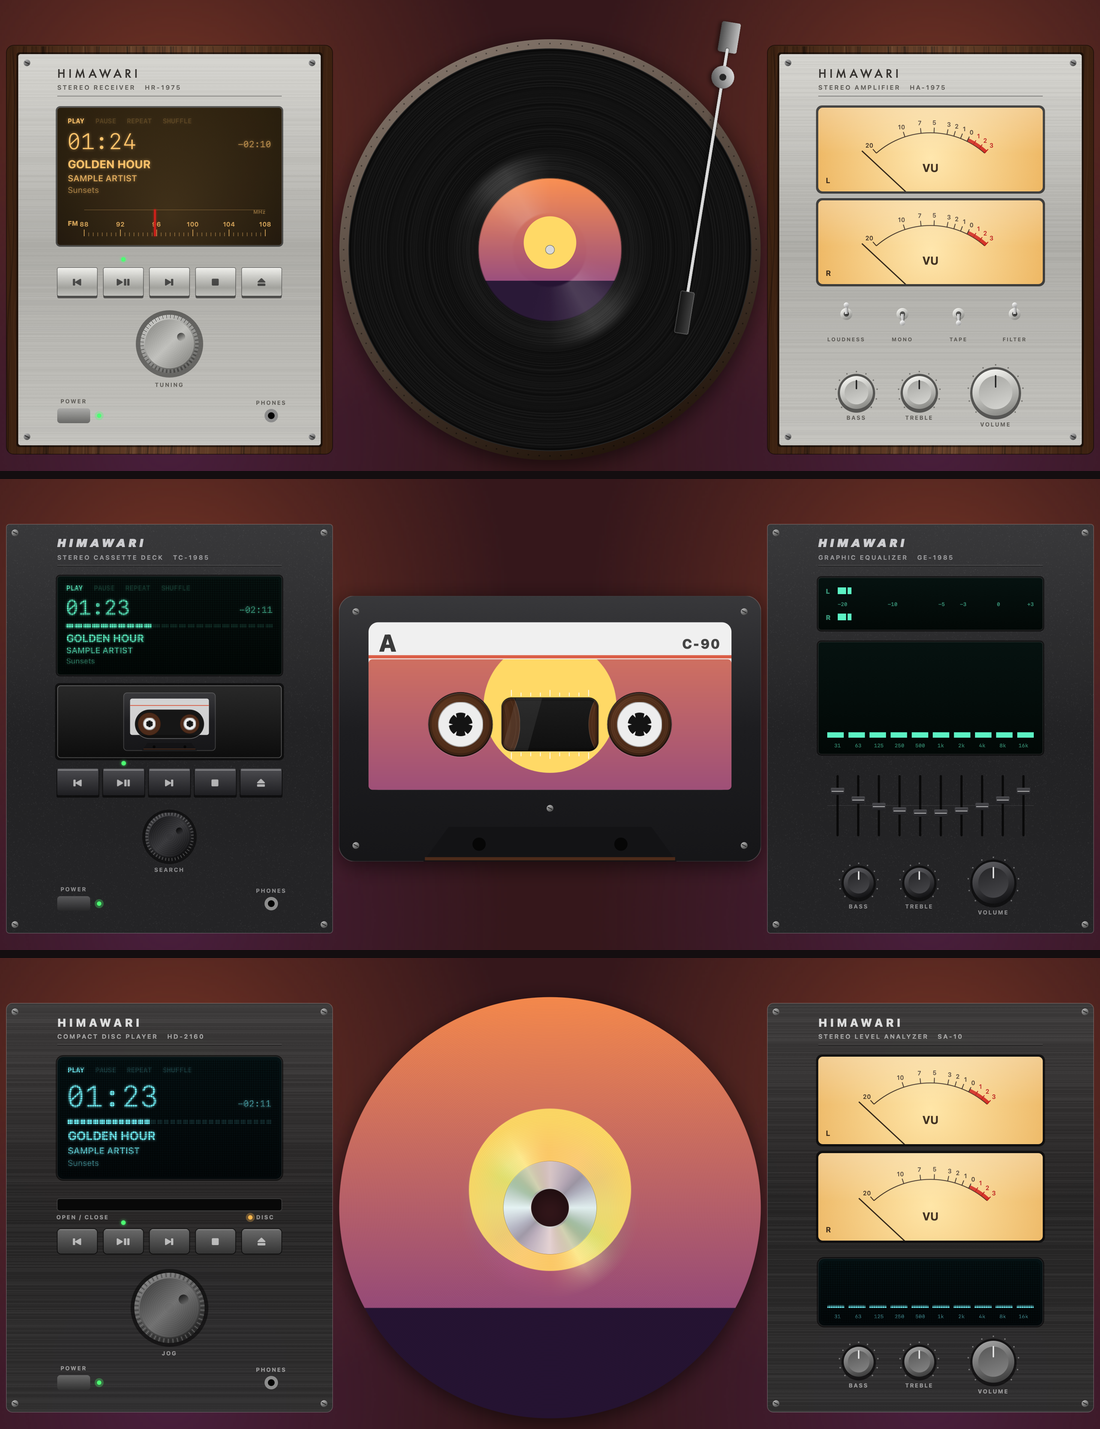
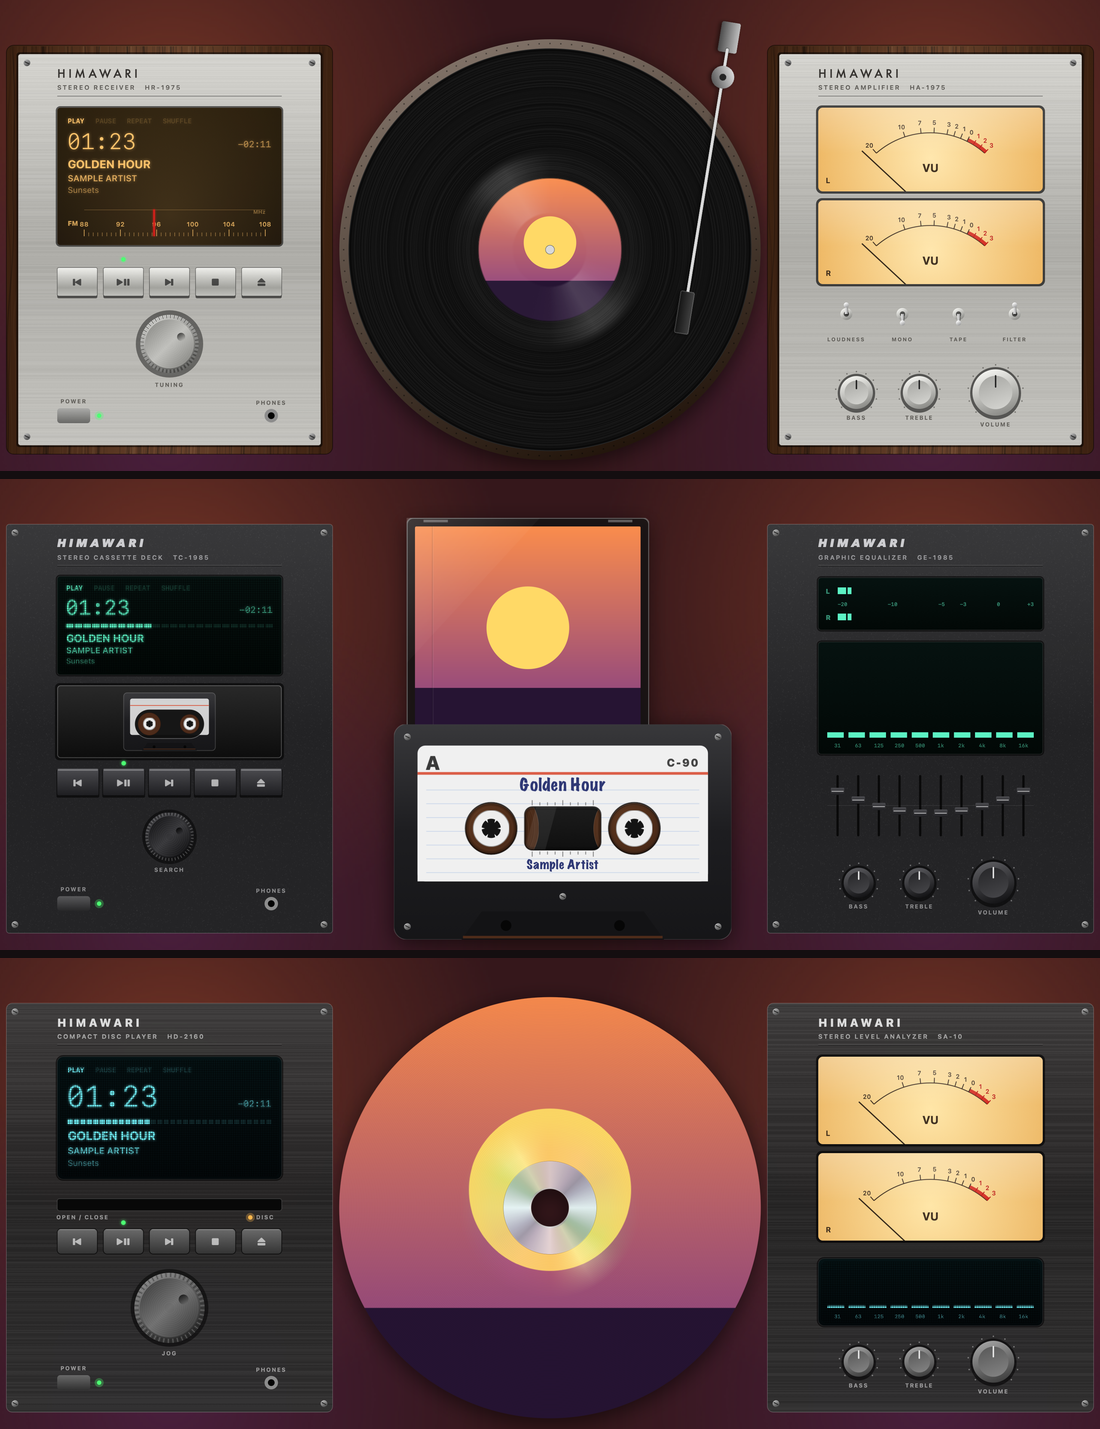
Cassette: the whole cover on the tape's open case behind it, the song and artist written on its ruled label; opaque chrome shell

Changed region(s): [[0.3091, 0.3387, 0.7109, 0.6774]]

diff --git a/Sources/Himawari/MusicScene.swift b/Sources/Himawari/MusicScene.swift
@@ -103,6 +103,7 @@ final class MusicScene: NSView {
         sides.isHidden = info == nil
         sides.animating = animating
         if let info { sides.show(info) }
+        if info?.title != song?.title || info?.artist != song?.artist { song = info; writeTapeLabel() }
         song = info
         followSong(force: false)
     }
@@ -402,6 +403,7 @@ final class MusicScene: NSView {
     private func makeMedia() -> CALayer {
         packs = []
         label = nil
+        tapeText = nil
         switch media {
         case .cd:
             let (holder, disc) = makeDisc(side: discRect.width)
@@ -502,40 +504,81 @@ final class MusicScene: NSView {
         return holder
     }
 
-    /// A cassette, as big as fits the square: the shell, the cover on its label, and the tape
-    /// on its two reels, whose hubs turn.
+    /// Where the cassette and its case sit in the square (fractions of its side): the case, with
+    /// the whole cover on its card, stands behind; the tape lies in front, over the case's foot.
+    enum Tape {
+        static let caseRect = CGRect(x: 0.18, y: 0.445, width: 0.535, height: 0.535)
+        static let tapeRect = CGRect(x: 0.13, y: 0, width: 0.8, height: 0.8 * 63.8 / 100)
+    }
+
+    /// A cassette in front of its open case: the whole cover on the case's card, and the tape
+    /// with the song written on its label, its tape on two reels whose hubs turn.
     private func makeCassette() -> CALayer {
-        let size = CassetteTheme.cassetteRect(in: CGRect(origin: .zero, size: discRect.size)).size
-        let bounds = CGRect(origin: .zero, size: size)
+        let side = discRect.width
+        let bounds = CGRect(x: 0, y: 0, width: side, height: side)
         let scale = window?.backingScaleFactor ?? 2
-        let holder = makeHolder(bounds, shadow: CGPath(roundedRect: bounds, cornerWidth: size.height * 0.06,
-                                                      cornerHeight: size.height * 0.06, transform: nil))
+        func scaled(_ r: CGRect) -> CGRect { CGRect(x: r.minX * side, y: r.minY * side, width: r.width * side, height: r.height * side) }
+        let caseRect = scaled(Tape.caseRect), tapeRect = scaled(Tape.tapeRect)
+        let shadow = CGMutablePath()
+        shadow.addRoundedRect(in: caseRect.insetBy(dx: -side * 0.02, dy: -side * 0.02), cornerWidth: side * 0.015, cornerHeight: side * 0.015)
+        shadow.addRoundedRect(in: tapeRect, cornerWidth: tapeRect.height * 0.06, cornerHeight: tapeRect.height * 0.06)
+        let holder = makeHolder(bounds, shadow: shadow)
+        func picture(_ frame: CGRect, in parent: CALayer, _ draw: @escaping () -> Void) {
+            let l = CALayer()
+            l.frame = frame
+            l.contents = Paint.image(size: frame.size, scale: scale) { _ in draw() }
+            l.contentsScale = scale
+            parent.addSublayer(l)
+        }
+
+        // The case: smoked plastic round the card, the cover whole on the card, and a gloss.
+        let caseFrame = caseRect.insetBy(dx: -side * 0.02, dy: -side * 0.02)
+        picture(caseFrame, in: holder) { CassetteTheme.caseBack(CGRect(origin: .zero, size: caseFrame.size), card: side * 0.02) }
+        let card = CALayer()
+        card.frame = caseRect
+        card.contents = cover
+        card.contentsGravity = .resizeAspectFill
+        card.masksToBounds = true
+        card.cornerRadius = side * 0.004
+        holder.addSublayer(card)
+        label = card
+        picture(caseFrame, in: holder) { CassetteTheme.caseFront(CGRect(origin: .zero, size: caseFrame.size), card: side * 0.02) }
+
+        // The tape.
+        let tape = CALayer()
+        tape.frame = tapeRect
+        holder.addSublayer(tape)
+        let size = tapeRect.size, local = CGRect(origin: .zero, size: size)
         let g = CassetteTheme.Big(size: size)
         let skin = style
-        func layer(_ draw: @escaping () -> Void) -> CALayer {
-            let l = CALayer()
-            l.frame = bounds
-            l.contents = Paint.image(size: size, scale: scale) { _ in draw() }
-            l.contentsScale = scale
-            holder.addSublayer(l)
-            return l
+        picture(local, in: tape) {
+            CassetteTheme.cassette(local, reels: g.reels, full: g.full, skin, small: false)
+            CassetteTheme.ruledLabel(local)
         }
-        _ = layer { CassetteTheme.cassette(bounds, reels: g.reels, full: g.full, skin, small: false) }
-        // The cover fills the label, below its printed top band…
-        let paper = CALayer()
-        paper.frame = CassetteTheme.labelArea(bounds)
-        paper.contents = cover
-        paper.contentsGravity = .resizeAspectFill
-        paper.masksToBounds = true
-        paper.cornerRadius = size.height * 0.015
-        holder.addSublayer(paper)
-        label = paper
-        // …cut away for the window and the hub holes, where the tape and hubs show.
-        _ = layer { CassetteTheme.inside(g) }
+        // The song, written on the label above the window, the artist below it.
+        let ink = NSColor(red: 0.12, green: 0.16, blue: 0.42, alpha: 0.92).cgColor // ballpoint blue
+        let area = CassetteTheme.labelArea(local)
+        let title = CATextLayer(), artist = CATextLayer()
+        for (text, y0, y1, fontSize) in [(title, g.window.maxY + size.height * 0.035, area.maxY, size.height * 0.075),
+                                         (artist, area.minY, g.window.minY - size.height * 0.035, size.height * 0.055)] {
+            text.frame = CGRect(x: area.minX + size.width * 0.05, y: y0, width: area.width - size.width * 0.1, height: y1 - y0)
+            text.font = NSFont(name: "MarkerFelt-Wide", size: fontSize) ?? NSFont.systemFont(ofSize: fontSize, weight: .semibold)
+            text.fontSize = fontSize
+            text.foregroundColor = ink
+            text.alignmentMode = .center
+            text.truncationMode = .end
+            text.contentsScale = scale
+            tape.addSublayer(text)
+        }
+        tapeText = (title, artist)
+        writeTapeLabel()
+
+        // Cut away for the window and the hub holes: the tape and hubs show through.
+        picture(local, in: tape) { CassetteTheme.inside(g) }
         let inside = CALayer()
-        inside.frame = bounds
-        inside.mask = Self.shape(g.openings, in: bounds)
-        holder.addSublayer(inside)
+        inside.frame = local
+        inside.mask = Self.shape(g.openings, in: local)
+        tape.addSublayer(inside)
         let packImage = Paint.image(size: CGSize(width: g.full * 2, height: g.full * 2), scale: scale) { _ in CassetteTheme.pack(radius: g.full) }
         packs = g.reels.map { c in
             let pack = CALayer()
@@ -556,9 +599,22 @@ final class MusicScene: NSView {
             inside.addSublayer(h)
             return h
         }
-        _ = layer { CassetteTheme.glass(g) }
+        picture(local, in: tape) { CassetteTheme.glass(g) }
         return holder
     }
+
+    /// The song and artist written on the cassette's label.
+    private var tapeText: (title: CATextLayer, artist: CATextLayer)?
+
+    private func writeTapeLabel() {
+        guard let (title, artist) = tapeText else { return }
+        CATransaction.begin()
+        CATransaction.setDisableActions(true)
+        title.string = song?.title ?? ""
+        artist.string = song?.artist ?? ""
+        CATransaction.commit()
+    }
+
     /// An empty reel's size as a fraction of a full one's.
     private var packHub: CGFloat = 0.4
 
@@ -804,7 +860,10 @@ final class MusicScene: NSView {
         let area = CGRect(x: 0, y: bottomInset, width: bounds.width, height: bounds.height - topInset - bottomInset)
         let side = min(area.height * 0.66, area.width * 0.46)
         discRect = CGRect(x: area.midX - side / 2, y: area.midY - side / 2 + area.height * 0.03, width: side, height: side).integral
-        mediaRect = media == .cassette ? CassetteTheme.cassetteRect(in: discRect) : discRect
+        mediaRect = media == .cassette
+            ? CGRect(x: discRect.minX + Tape.tapeRect.minX * side, y: discRect.minY + Tape.tapeRect.minY * side,
+                     width: Tape.tapeRect.width * side, height: Tape.tapeRect.height * side)
+            : discRect
         ambient.arrange(in: bounds, around: discRect)
         ambient.animated = lively
         sides.lively = lively

diff --git a/Sources/Himawari/Themes/CassetteTheme.swift b/Sources/Himawari/Themes/CassetteTheme.swift
@@ -297,14 +297,52 @@ struct CassetteTheme: GearTheme {
         let rim = NSBezierPath(cgPath: g.openings)
         rim.transform(using: AffineTransform(translationByX: 0, byY: -1))
         rim.lineWidth = 0.8; rim.stroke()
-        // Tape-length marks above and below the window.
-        NSColor(white: 1, alpha: 0.85).setFill()
+        // Tape-length marks above and below the window, printed on the label.
+        NSColor(white: 0.2, alpha: 0.55).setFill()
         for i in 0...8 {
             let x = w.minX + w.width * (0.1 + 0.8 * CGFloat(i) / 8)
             let long = i % 4 == 0
             NSRect(x: x - 0.6, y: w.maxY + 2, width: 1.2, height: long ? w.height * 0.12 : w.height * 0.07).fill()
             NSRect(x: x - 0.6, y: w.minY - 2 - (long ? w.height * 0.12 : w.height * 0.07), width: 1.2, height: long ? w.height * 0.12 : w.height * 0.07).fill()
         }
+    }
+
+    /// Ruled lines across the label, for writing on (the cassette in the music scene).
+    static func ruledLabel(_ r: CGRect) {
+        let area = labelArea(r)
+        NSColor(white: 0.94, alpha: 1).setFill()
+        NSRect(x: area.minX, y: area.minY, width: area.width, height: area.height).fill()
+        NSColor(red: 0.45, green: 0.6, blue: 0.85, alpha: 0.35).setFill()
+        for y in stride(from: area.minY + area.height * 0.08, to: area.maxY - 2, by: area.height * 0.13) {
+            NSRect(x: area.minX + area.width * 0.03, y: y, width: area.width * 0.94, height: 0.8).fill()
+        }
+    }
+
+    /// The case behind the card: smoked clear plastic with its hinge along the top.
+    static func caseBack(_ r: CGRect, card: CGFloat) {
+        let shell = NSBezierPath(roundedRect: r, xRadius: card * 0.8, yRadius: card * 0.8)
+        NSColor(white: 0.08, alpha: 0.75).setFill(); shell.fill()
+        NSColor(white: 1, alpha: 0.25).setStroke(); shell.lineWidth = 1; shell.stroke()
+    }
+
+    /// Over the card: the case's lid, catching the light, its hinge, and the card's fold (the spine).
+    static func caseFront(_ r: CGRect, card: CGFloat) {
+        let inner = r.insetBy(dx: card, dy: card)
+        NSColor(white: 0, alpha: 0.12).setFill() // the J-card's fold near its left edge
+        NSRect(x: inner.minX + inner.width * 0.075, y: inner.minY, width: 1.2, height: inner.height).fill()
+        NSColor(white: 1, alpha: 0.1).setFill()
+        NSRect(x: inner.minX + inner.width * 0.075 + 1.2, y: inner.minY, width: 0.8, height: inner.height).fill()
+        let gloss = NSBezierPath()
+        gloss.move(to: CGPoint(x: r.minX, y: r.maxY)); gloss.line(to: CGPoint(x: r.minX + r.width * 0.55, y: r.maxY))
+        gloss.line(to: CGPoint(x: r.minX, y: r.maxY - r.height * 0.6)); gloss.close()
+        NSGradient(colors: [NSColor(white: 1, alpha: 0.16), NSColor(white: 1, alpha: 0.02)])?.draw(in: gloss, angle: -45)
+        for x in [r.minX + r.width * 0.12, r.maxX - r.width * 0.12] { // the hinge's pins along the top
+            NSColor(white: 1, alpha: 0.3).setFill()
+            NSRect(x: x - r.width * 0.05, y: r.maxY - card * 0.55, width: r.width * 0.1, height: card * 0.3).fill()
+        }
+        NSColor(white: 1, alpha: 0.35).setStroke()
+        let rim = NSBezierPath(roundedRect: r.insetBy(dx: 1, dy: 1), xRadius: card * 0.7, yRadius: card * 0.7)
+        rim.lineWidth = 1; rim.stroke()
     }
 
     /// A pack of tape seen edge-on through the window: brown, with the faint rings of its turns.

diff --git a/Sources/HimawariKit/Skin.swift b/Sources/HimawariKit/Skin.swift
@@ -309,7 +309,7 @@ extension Skin {
              colors: .init(plate: [c("#ECEEF0"), c("#A3A8AD"), c("#D3D7DB")], glass: [c("#140C06"), c("#070402")],
                            display: c("#FF9A3C"), accent: c("#FFD23D"), peak: c("#FF3B30"), label: c("#1D2023"),
                            ink: c("#2E1F14"), meter: [c("#FFE6A8"), c("#EDB866")], button: [c("#F2F4F6"), c("#90959A")],
-                           knob: [c("#F4F6F8"), c("#7E8389")], cabinet: c("#A3A8AD"), media: c("#9AA1A8C8")),
+                           knob: [c("#F4F6F8"), c("#7E8389")], cabinet: c("#A3A8AD"), media: c("#9AA1A8")),
              brandFont: "AvenirNext-HeavyItalic", displayFont: nil,
              layout: .init(columnWidth: 300, corner: 4, gap: 6, caseWidth: 0)),
         // Today's look, exactly as before skins: the numbers are the old hard-coded ones.

diff --git a/docs/release-notes/1.4.md b/docs/release-notes/1.4.md
@@ -3,7 +3,7 @@
 Himawari menu ▸ **Style** changes what the side gear and the middle of the music scene look like.
 
 - **1970s Hi-Fi:** a receiver with a backlit tuning dial, whose red pointer travels through the song (click the dial to jump), piano keys, and a big tuning knob that scrubs. The amplifier has VU meters, switches and silver knobs. In the middle, the cover is the label of a record on a turntable, and the tonearm moves in as the song plays. Skins: **Walnut** and **Brushed Silver**.
-- **1980s Cassette Deck:** a tape deck whose cassette winds from one reel to the other through the song, with piano keys and a search dial. The graphic equalizer has LED level meters, a segment spectrum and sliders. In the middle, a cassette with the cover on its label, whose reels you can grab and turn to scrub. Skins: **Black Plastic** and **Chrome Metal**.
+- **1980s Cassette Deck:** a tape deck whose cassette winds from one reel to the other through the song, with piano keys and a search dial. The graphic equalizer has LED level meters, a segment spectrum and sliders. In the middle, a cassette in front of its open case: the whole cover on the case, the song and artist written on the tape's label, and reels you can grab and turn to scrub. Skins: **Black Plastic** and **Chrome Metal**.
 - **2000s Rack:** the CD deck and stereo analyzer, as before (still the default), plus a **Champagne Gold** skin.
 - Every control works the same in every era, and switching styles keeps the song where it is.
 - **Make your own skins:** colours, materials, lettering and a few layout numbers, as small JSON files in `~/Library/Application Support/Himawari/Skins/` (Style ▸ Open Skins Folder). The built-in skins are in `Skins/Examples/` to start from. A file with a mistake is skipped, and the Style menu says what's wrong.

diff --git a/README.md b/README.md
@@ -169,7 +169,7 @@ changer: your playlists as discs to flip through and play.
 | Era | The player | In the middle | Skins |
 |---|---|---|---|
 | **1970s Hi-Fi** | A receiver with a backlit tuning dial (its red pointer travels through the song), piano keys and a big tuning knob; an amplifier with VU meters | A record on a turntable; the tonearm moves in as the song plays | Walnut, Brushed Silver |
-| **1980s Cassette Deck** | A tape deck whose cassette winds from one reel to the other, piano keys and a search dial; a graphic equalizer with LED meters | A cassette with the cover on its label; its reels turn | Black Plastic, Chrome Metal |
+| **1980s Cassette Deck** | A tape deck whose cassette winds from one reel to the other, piano keys and a search dial; a graphic equalizer with LED meters | A cassette in front of its case: the whole cover on the case, the song written on the tape's label; its reels turn | Black Plastic, Chrome Metal |
 | **2000s Rack** | The CD deck and stereo analyzer (the original look, and still the default) | A picture CD | Black, Champagne Gold |
 
 The controls work the same in every era: the buttons, the progress (the ladder, or the tuning dial),
